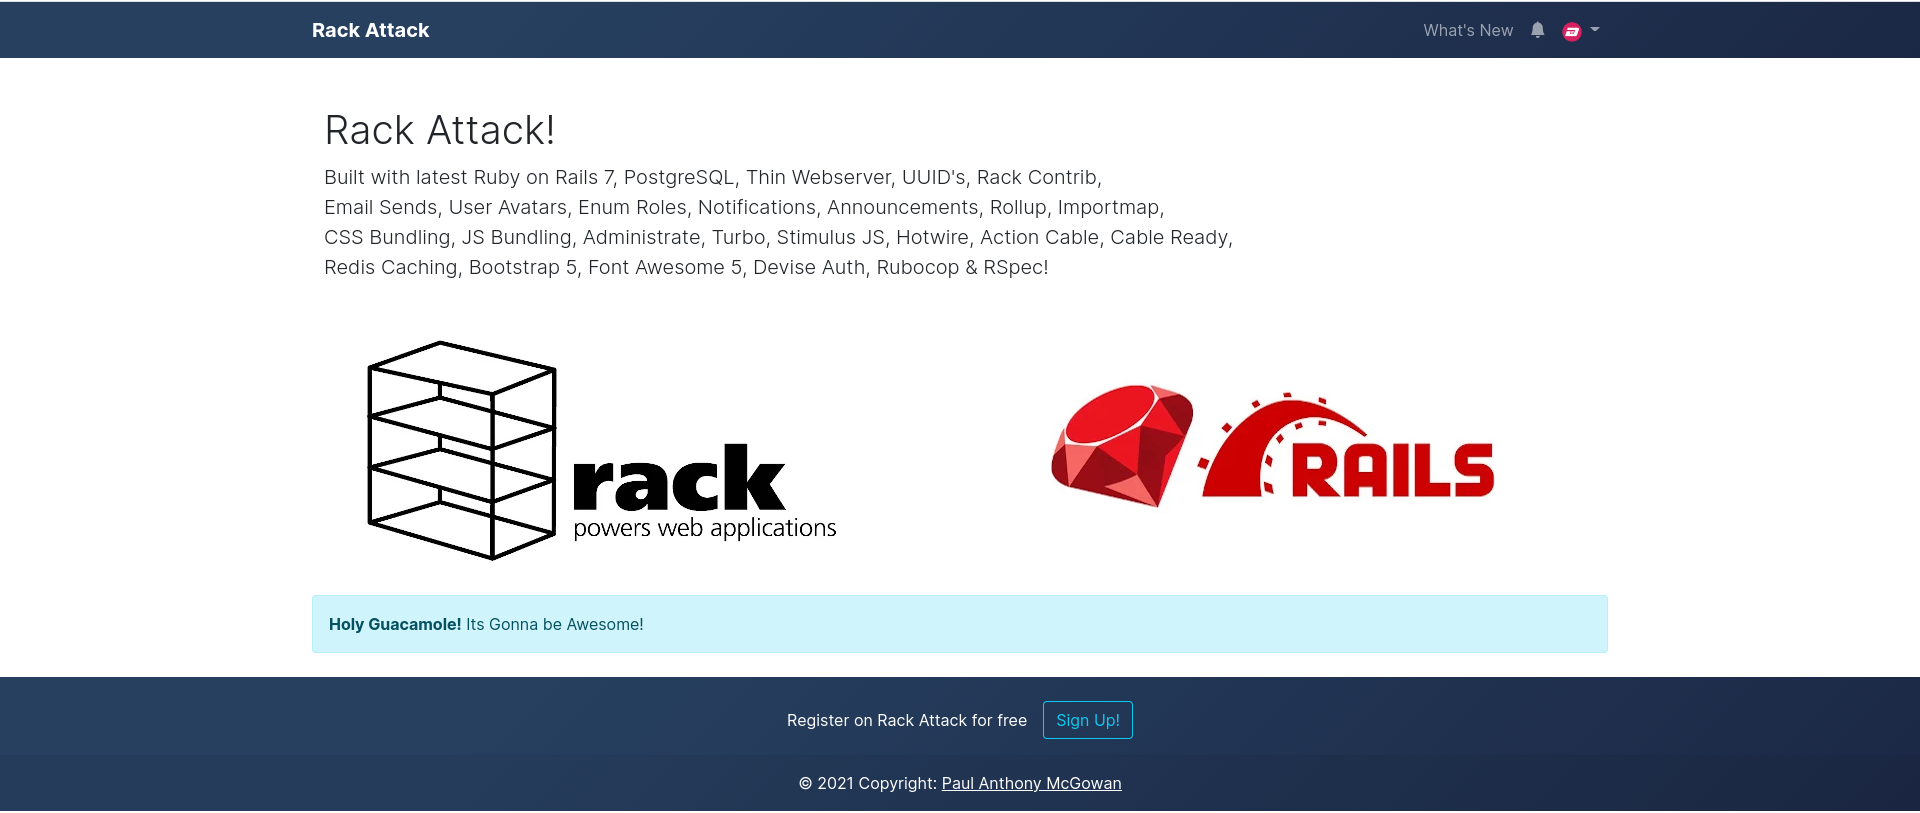
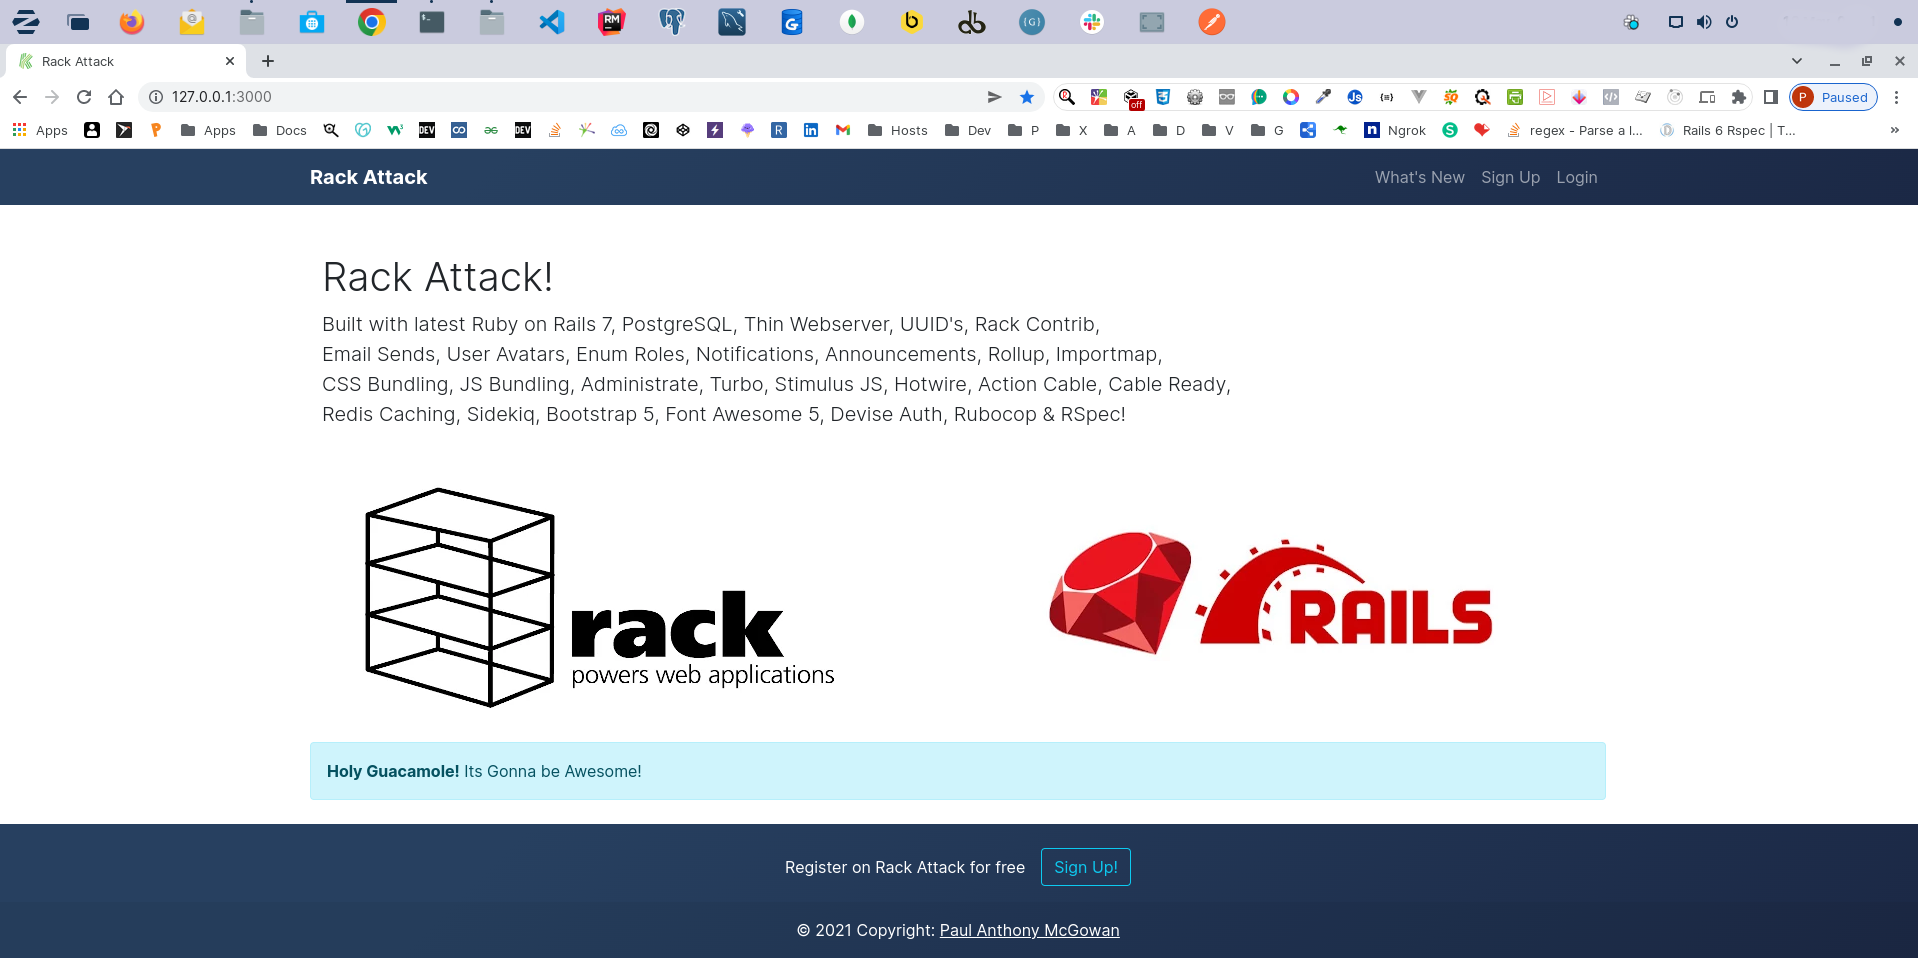
Update Sidekiq

Changed region(s): [[0.0, 0.0, 1.0, 0.9225], [0.0, 0.9533, 1.0, 1.0]]

diff --git a/app/jobs/application_job.rb b/app/jobs/application_job.rb
@@ -2,8 +2,8 @@
 
 class ApplicationJob < ActiveJob::Base
   # Automatically retry jobs that encountered a deadlock
-  # retry_on ActiveRecord::Deadlocked
+  retry_on ActiveRecord::Deadlocked
 
   # Most jobs are safe to ignore if the underlying records are no longer available
-  # discard_on ActiveJob::DeserializationError
+  discard_on ActiveJob::DeserializationError
 end

diff --git a/config/application.rb b/config/application.rb
@@ -9,7 +9,7 @@ require 'rails/all'
 
 Bundler.require(*Rails.groups)
 
-module JumpstartOcto
+module RackAttack
   class Application < Rails::Application # rubocop:disable Style/Documentation
     # Initialize configuration defaults for originally generated Rails version.
     config.load_defaults 7.0

diff --git a/app/workers/example_worker.rb b/app/workers/example_worker.rb
@@ -1,0 +1,10 @@
+# frozen_string_literal: true
+
+class ExampleWorker
+  include Sidekiq::Worker
+  sidekiq_options retry: false
+
+  #def perform
+   # Example.destroy_all
+ # end
+end
